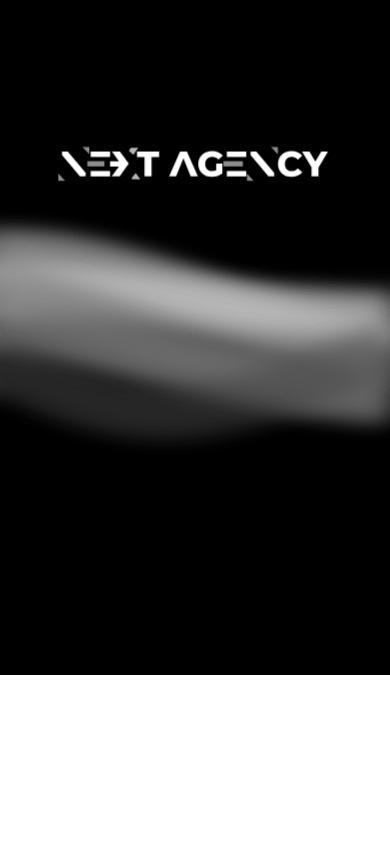
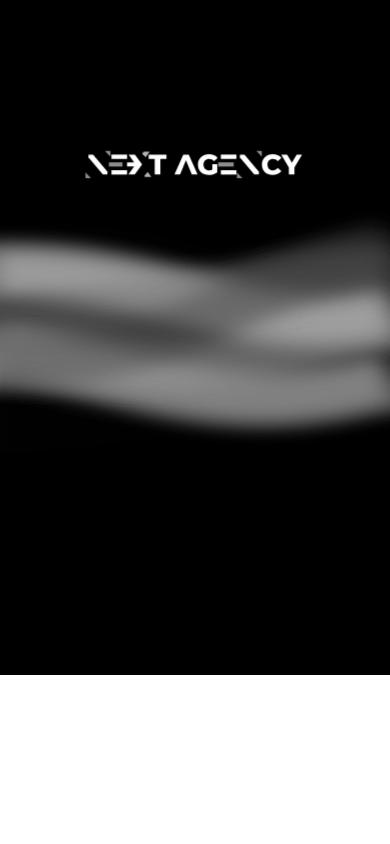
feat: showreel wordmark settles 25% smaller (75% of the gutter width)
Final size lives in CSS so reduced motion matches; the rest scale is rebased
so the starting size is unchanged.

ThreadRig-Thread: main

Changed region(s): [[0.0, 0.2464, 1.0, 0.5237], [0.1538, 0.154, 0.8308, 0.2156], [0.9846, 0.4005, 1.0, 0.4313]]

diff --git a/src/components/hero/HeroMedia.tsx b/src/components/hero/HeroMedia.tsx
@@ -24,7 +24,8 @@ const FRAGMENT_DIRECTIONS: Record<string, [number, number]> = {
 // 30 keeps every fragment clear of neighbouring letters (closest: AGENCY's E bar vs G) and inside the gutter.
 const FRAGMENT_DISTANCE = 30;
 // Wordmark rests at this fraction of its full gutter width and grows to 1 on scroll.
-const WORDMARK_REST_SCALE = 0.38;
+// Rest size relative to the final (CSS) size: same on-screen start as before (0.38 of the gutter).
+const WORDMARK_REST_SCALE = 0.38 / 0.75;
 // Where the wordmark's centre starts, as a fraction of the frame height from its top.
 // Negative = above the frame (clipped by overflow), so it is hidden until it drops in.
 const WORDMARK_REST_TOP = -0.12;

diff --git a/src/app/globals.css b/src/app/globals.css
@@ -210,7 +210,8 @@ html[data-loader="skip"] .stat-word {
   justify-content: center;
 }
 .media-wordmark {
-  width: calc(100% - 6.6vw);
+  /* Final size: 75% of the gutter width. */
+  width: calc((100% - 6.6vw) * 0.75);
   max-width: none;
   flex-shrink: 0;
 }
@@ -336,7 +337,7 @@ html[data-loader="skip"] .stat-word {
     font-size: 9px;
   }
   .media-wordmark {
-    width: calc(100% - 32px);
+    width: calc((100% - 32px) * 0.75);
   }
   .support {
     padding: 7vh 6vw 3vh;
